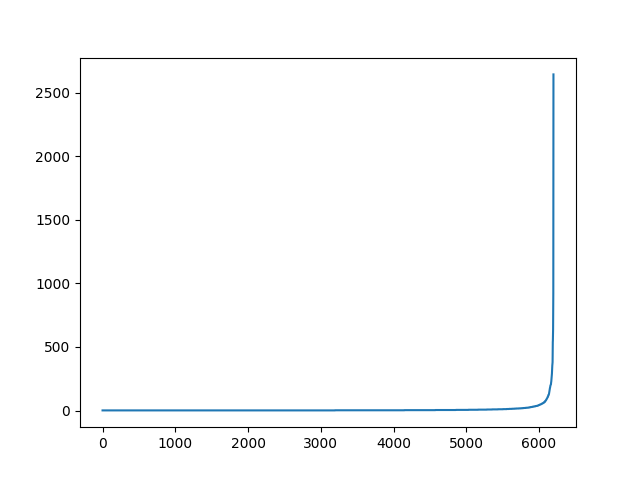
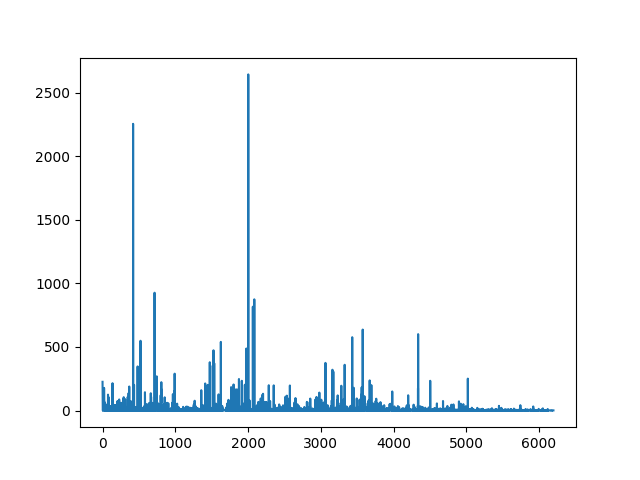
test

Changed region(s): [[0.1562, 0.1562, 0.875, 0.875]]

diff --git a/user_analysis.py b/user_analysis.py
@@ -48,8 +48,8 @@ def plot_user_freq(data):
         user_freq[i,0] = len(user_dict[user])
     user_freq[:,1] = np.arange(users) #make a sort of index collumn
     print(user_freq)
-    sort_userfreq = user_freq[user_freq[:,0].argsort()] 
-    plt.plot(sort_userfreq[:,0], np.arange(len(sort_userfreq[:,1])))
+    sort_userfreq = user_freq[user_freq[:,0].argsort()]
+    plt.plot(user_freq[:,0])
     plt.savefig('test_sortuserfreq.png')
     print(sort_userfreq)
     top_80 = sort_userfreq[:int(users*0.8), :int(users*0.8)]
